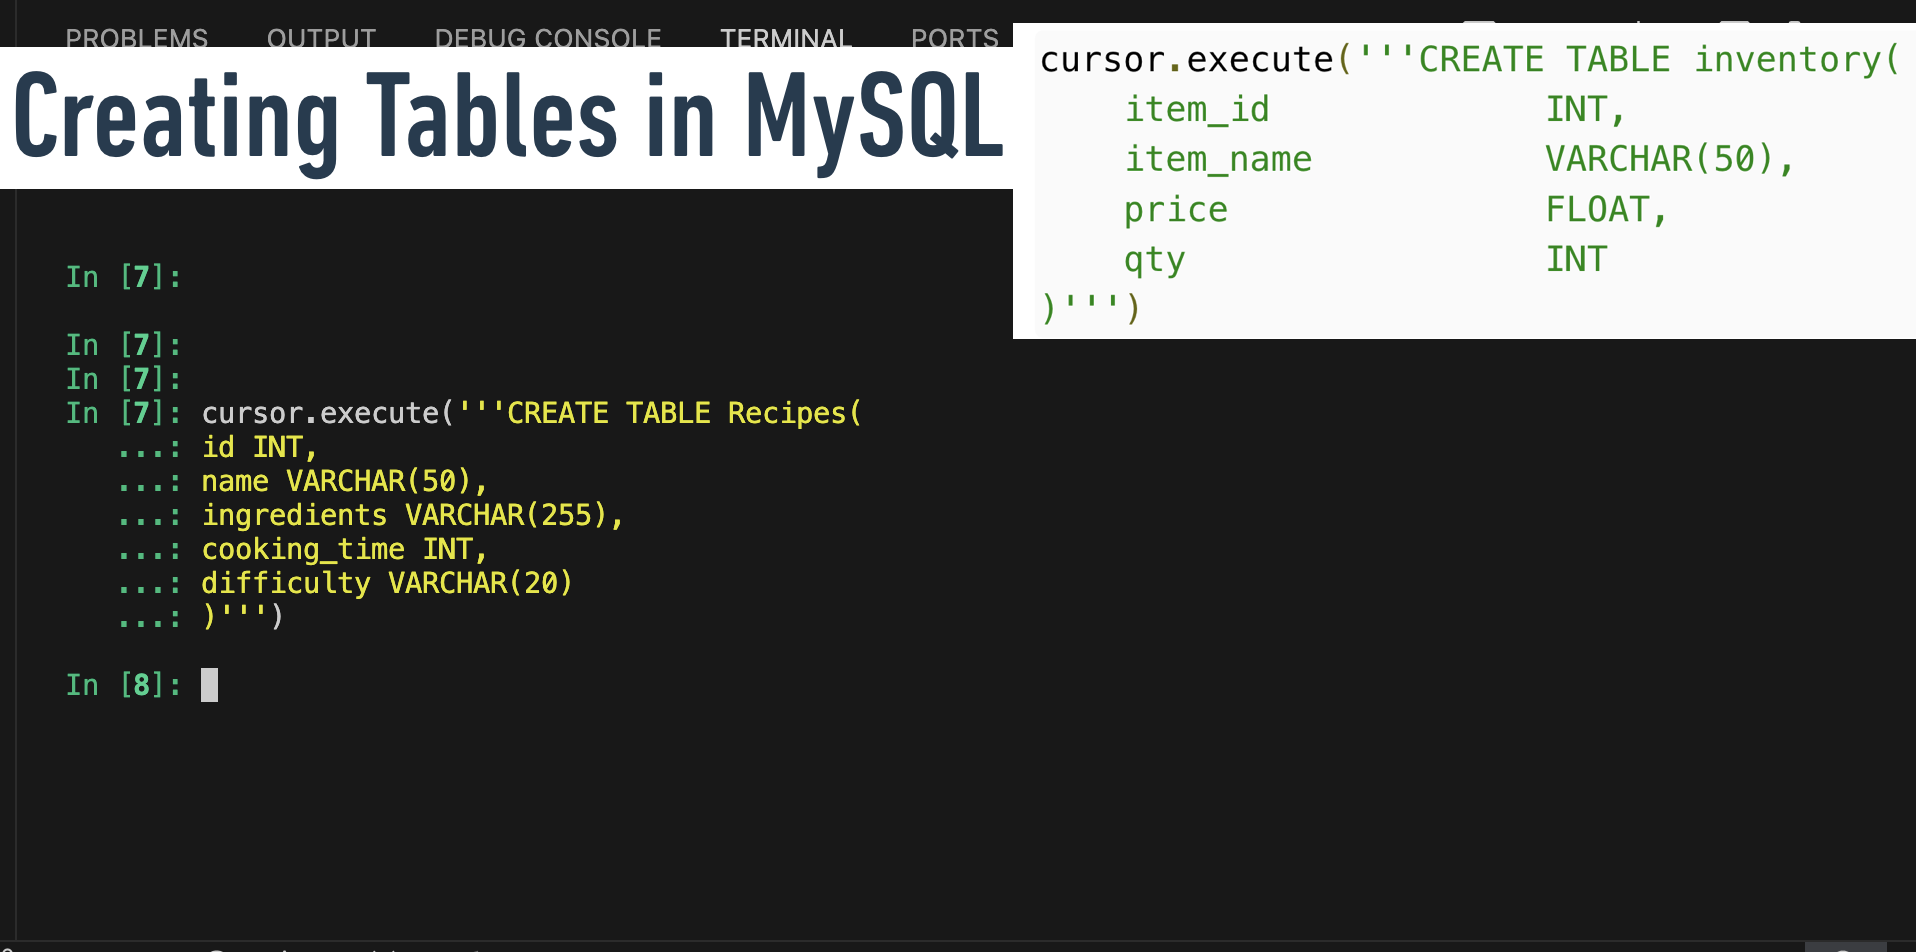
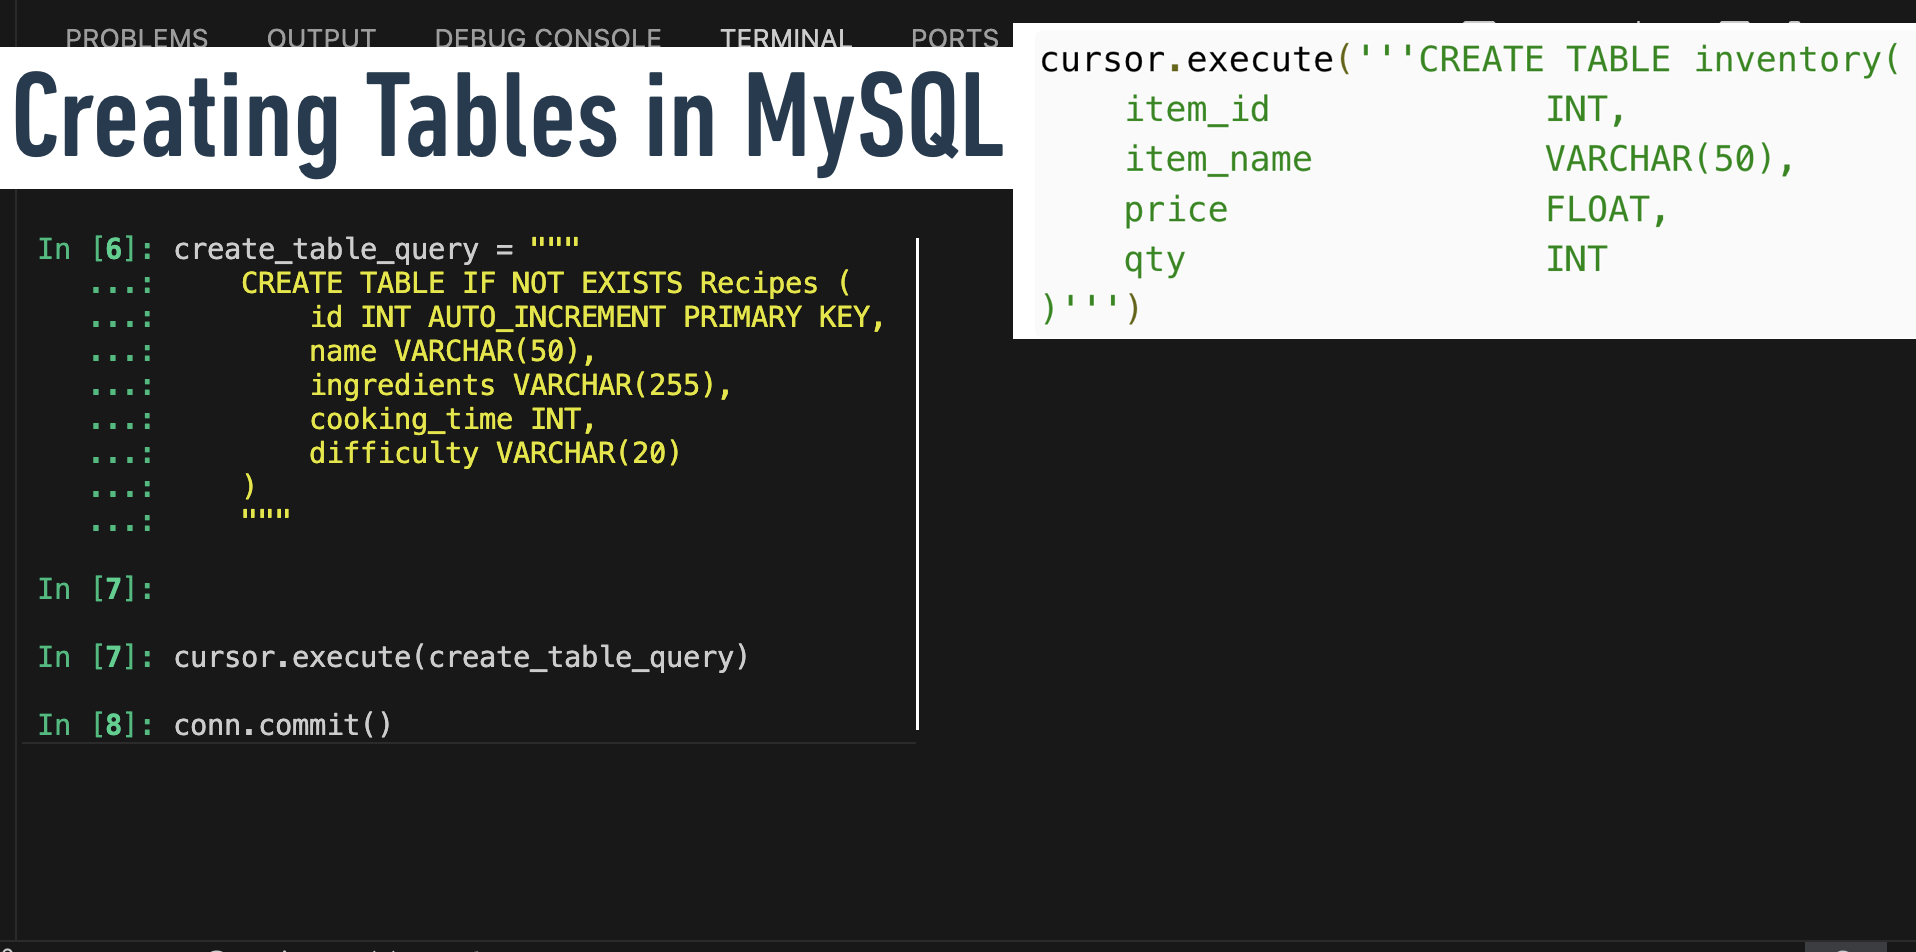
Add CRUD operations

Changed region(s): [[0.0, 0.2437, 0.4619, 0.6397], [0.0, 0.6702, 0.4003, 0.792]]

diff --git a/achievement-1/Exercise-1.6/Exercise1.6-Task/recipe_mysql.py b/achievement-1/Exercise-1.6/Exercise1.6-Task/recipe_mysql.py
@@ -1,12 +1,58 @@
 import mysql.connector
 
-conn = mysql.connector.connect(
+def create_database_and_table(conn, cursor):
+    cursor.execute("CREATE DATABASE IF NOT EXISTS task_database")
+    cursor.execute("USE task_database")
+
+    create_table_query = """
+    CREATE TABLE IF NOT EXISTS Recipes (
+        id INT AUTO_INCREMENT PRIMARY KEY,
+        name VARCHAR(50),
+        ingredients VARCHAR(255),
+        cooking_time INT,
+        difficulty VARCHAR(20)
+    )
+    """
+    cursor.execute(create_table_query)
+    conn.commit()
+
+
+def main_menu():
+    conn = mysql.connector.connect(
         host='localhost',
         user='cf-python',
         passwd='beren',
         database='task_database'
     )
-cursor = conn.cursor()
+    cursor = conn.cursor()
+
+
+    menu_options = {
+        '1': create_recipe,
+        '2': search_recipe,
+        '3': update_recipe,
+        '4': delete_recipe
+    }
+
+    while True:
+        print_menu()
+        choice = get_user_choice()
+
+        if choice in menu_options:
+            try:
+                menu_options[choice](conn, cursor)
+            except Exception as e:
+                print(f"Error: {e}")
+        elif choice == '5':
+            print("Exiting...")
+            conn.commit()
+            cursor.close()
+            conn.close()
+            break
+        else:
+            # print("Invalid choice, please try again.")
+            cursor.execute("DESCRIBE Recipes")
+
 
 def print_menu():
     print("\nOptions:")
@@ -16,9 +62,10 @@ def print_menu():
     print("4. Delete a recipe")
     print("5. Exit")
 
+
 def get_user_choice():
-    choice = input("Enter your choice (1-5): ")
-    return choice
+    return input("Enter your choice (1-5): ")
+
 
 def calc_difficulty(cook_time, ingredients):
     ingredient_count = len(ingredients.split(', '))
@@ -32,11 +79,13 @@ def calc_difficulty(cook_time, ingredients):
     elif cook_time >= 10 and ingredient_count >= 4:
         return "Hard"
     else:
-        return "Unknown"
+        return "Difficulty Unknown"
     
+
 def format_ingredients(ingredients):
     # stripp any leading or trailing whitespace from each ingredient and excluding any empty strings
     return ', '.join(ingredient.strip() for ingredient in ingredients.split(',') if ingredient.strip())
+
 
 def create_recipe(conn, cursor):
     # Prompt user
@@ -76,6 +125,7 @@ def create_recipe(conn, cursor):
     except Exception as e:
         print("An error occurred:", e)
 
+
 def search_recipe(conn, cursor):
     # Retrieve all distinct ingredients
     cursor.execute("SELECT DISTINCT ingredients FROM Recipes")
@@ -85,7 +135,12 @@ def search_recipe(conn, cursor):
     all_ingredients = set()
     for row in results:
         ingredients = row[0]
-        all_ingredients.update(ingredients.split(', '))
+        # Convert each ingredient to lowercase before adding it to the set
+        all_ingredients.update(ingredient.strip().lower() for ingredient in ingredients.split(', '))
+
+    if not all_ingredients:
+        print("\nNo ingredients available. Please add a recipe first.")
+        return
 
     print("\nAvailable ingredients:")
     for i, ingredient in enumerate(sorted(all_ingredients), start=1):
@@ -104,40 +159,121 @@ def search_recipe(conn, cursor):
     else:
         print("No recipes found with that ingredient.")
 
+
+def update_recipe(conn, cursor):
+
+    recipes = fetch_recipes(cursor)
+    
+    if not recipes:
+        print("No recipes available to update.")
+        return
+    
+    print_recipes(recipes)
+
+    # Prompt the user to enter the ID of the recipe they want to update
+    recipe_id = int(input("Enter the ID of the recipe to update: "))
+    
+    # Ask the user which column they want to update
+    column_to_update = input("Enter the column to update (name, ingredients, cooking_time): ")
+
+    if column_to_update == 'name':
+        update_name(cursor, recipe_id)
+    elif column_to_update == 'ingredients':
+        update_ingredients(cursor, recipe_id)
+    elif column_to_update == 'cooking_time':
+        update_cooking_time(cursor, recipe_id)
+    else:
+        # If the user enters an invalid column, print an error message and exit the function
+        print("Invalid column.")
+        return
+
+    # If the user updated the ingredients or cooking time, recalculate the recipe's difficulty
+    if column_to_update in ['ingredients', 'cooking_time']:
+        update_difficulty(cursor, recipe_id)
+
+    # Commit the transaction to save all changes permanently to the database
+    conn.commit()
+    
+    # Notify the user that the recipe was updated successfully
+    print("Recipe updated successfully!")
+
+
+def fetch_recipes(cursor):
+    # Fetch the ID and name of all recipes from the Recipes table
+    cursor.execute("SELECT id, name FROM Recipes")
+    return cursor.fetchall()
+
+
+def print_recipes(recipes):
+    print("\nExisting recipes:")
+    for row in recipes:
+        print(f"ID: {row[0]}, Name: {row[1]}")
+
+
+def update_name(cursor, recipe_id):
+    # If the column to update is 'name', prompt the user for the new name
+    new_value = input("Enter the new name: ")
+    # Update the name in the Recipes table where the ID matches the recipe_id
+    update_query = "UPDATE Recipes SET name = %s WHERE id = %s"
+    cursor.execute(update_query, (new_value, recipe_id))
+
+
+def update_ingredients(cursor, recipe_id):
+     # If the column to update is 'ingredients', prompt the user for the new ingredients
+    new_value = input("Enter the new ingredients (comma-separated): ")
+    
+    # Sanitize the new ingredients input (formatting function assumed to exist)
+    formatted_ingredients = format_ingredients(new_value)
+    
+    # Update the ingredients in the Recipes table where the ID matches the recipe_id
+    update_query = "UPDATE Recipes SET ingredients = %s WHERE id = %s"
+    cursor.execute(update_query, (formatted_ingredients, recipe_id))
+
+
+def update_cooking_time(cursor, recipe_id):
+    # If the column to update is 'cooking_time', prompt the user for the new cooking time
+    new_value = int(input("Enter the new cooking time (in minutes): "))
+    # Update the cooking_time in the Recipes table where the ID matches the recipe_id
+    update_query = "UPDATE Recipes SET cooking_time = %s WHERE id = %s"
+    cursor.execute(update_query, (new_value, recipe_id))
+
+
+def update_difficulty(cursor, recipe_id):
+    # Fetch the updated cooking time and ingredients for the recipe
+    cursor.execute("SELECT cooking_time, ingredients FROM Recipes WHERE id = %s", (recipe_id,))
+    row = cursor.fetchone()
+    
+    # Calculate the difficulty based on the cooking time and ingredients
+    difficulty = calc_difficulty(row[0], row[1])
+    
+    # Update the difficulty in the Recipes table where the ID matches the recipe_id
+    update_query = "UPDATE Recipes SET difficulty = %s WHERE id = %s"
+    cursor.execute(update_query, (difficulty, recipe_id))
+
+
+def delete_recipe(conn, cursor):
+    cursor.execute("SELECT id, name FROM Recipes")
+    recipes = cursor.fetchall()
+    
+    if not recipes:
+        print("\nNo recipes available to delete.")
+        return
+    
+    print("\nExisting recipes:")
+    for row in recipes:
+        print(f"ID: {row[0]}, Name: {row[1]}")
+
+    recipe_id = int(input("Enter the ID of the recipe to delete: "))
+
+    delete_query = "DELETE FROM Recipes WHERE id = %s"
+    cursor.execute(delete_query, (recipe_id,))
+    conn.commit()
+    print("Recipe deleted")    
+
+
 def main():
-    conn = mysql.connector.connect(
-        host='localhost',
-        user='cf-python',
-        passwd='beren',
-        database='task_database'
-    )
-    cursor = conn.cursor()
+    main_menu()
 
-
-    menu_options = {
-        '1': create_recipe,
-        '2': search_recipe,
-        '3': update_recipe,
-        '4': delete_recipe
-    }
-
-    while True:
-        print_menu()
-        choice = get_user_choice()
-
-        if choice in menu_options:
-            try:
-                menu_options[choice](conn, cursor)
-            except Exception as e:
-                print(f"Error: {e}")
-        elif choice == '5':
-            print("Exiting...")
-            conn.commit()
-            cursor.close()
-            conn.close()
-            break
-        else:
-            print("Invalid choice, please try again.")
 
 if __name__ == "__main__":
     main()
